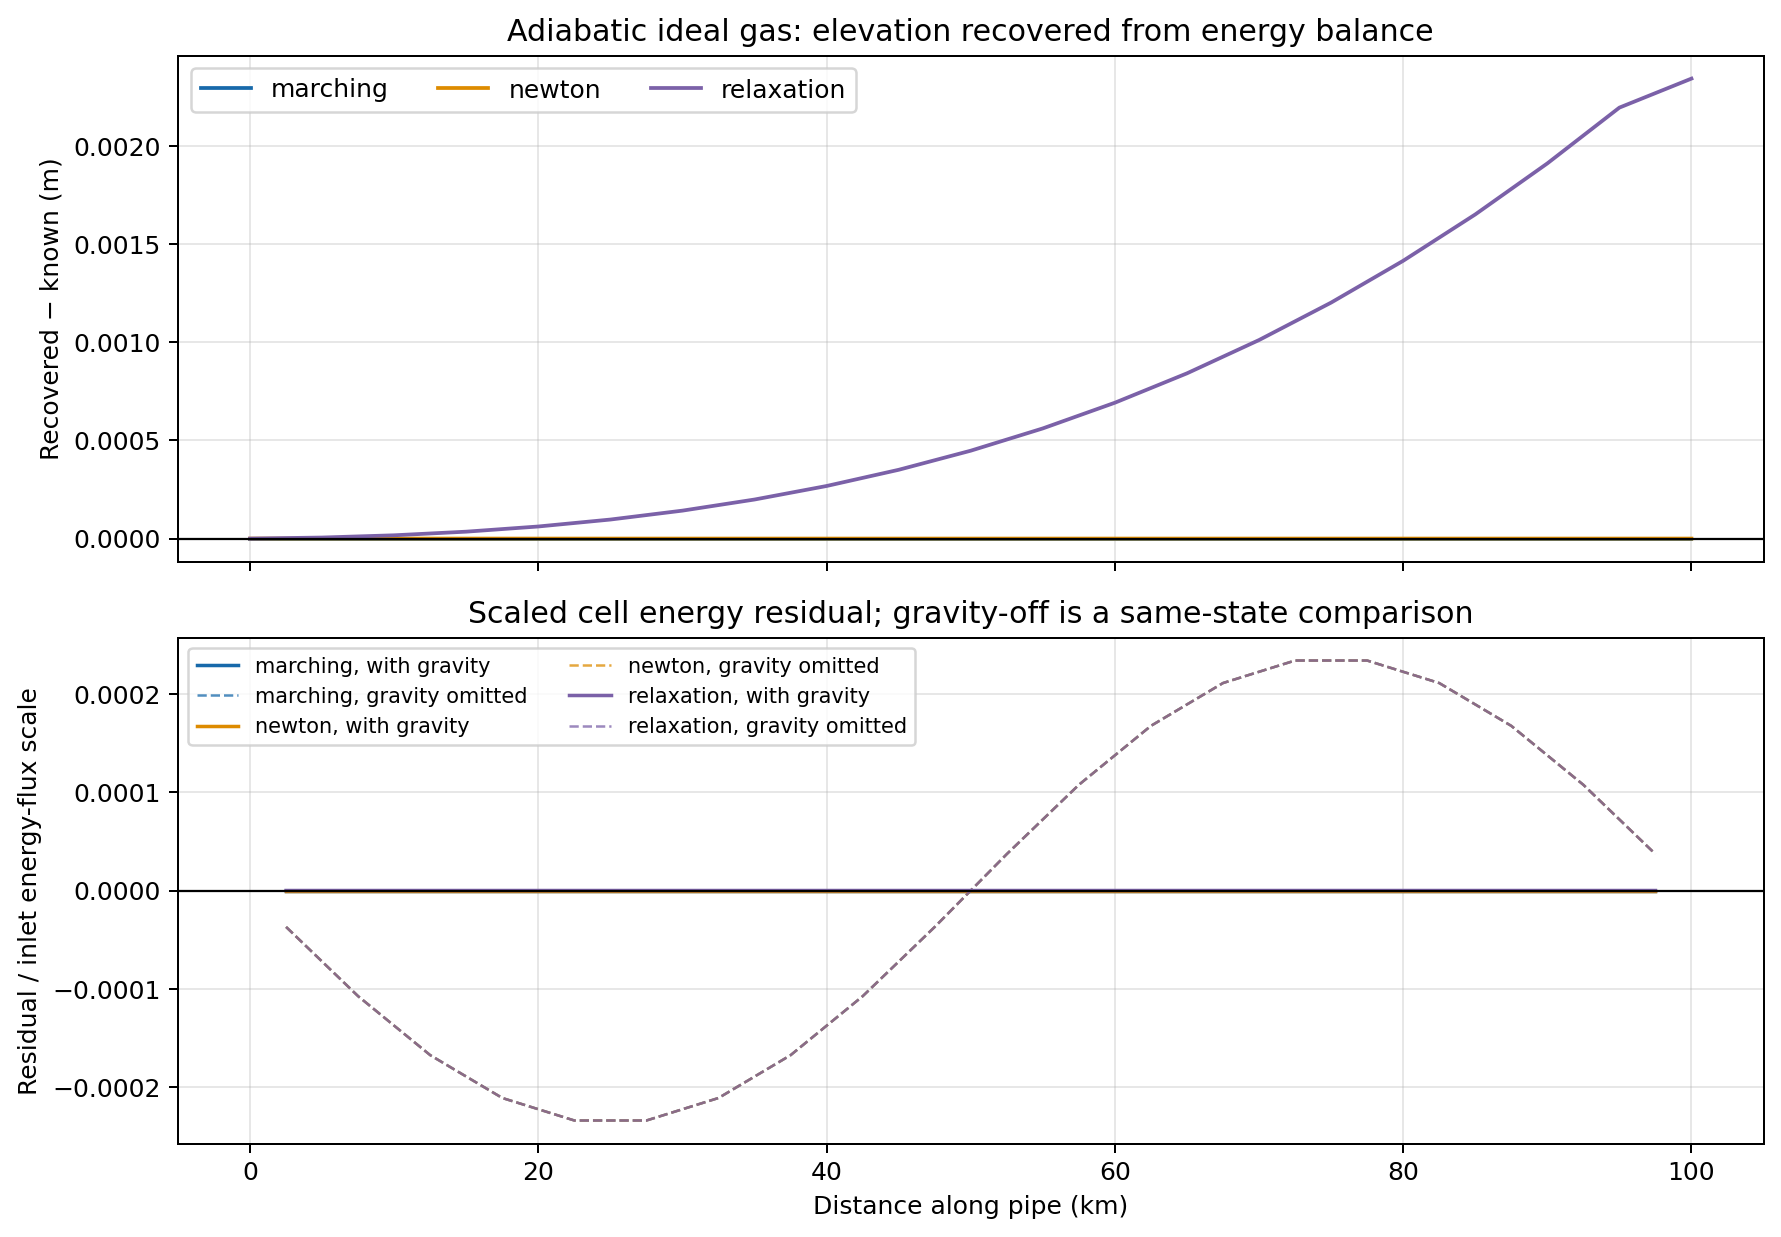
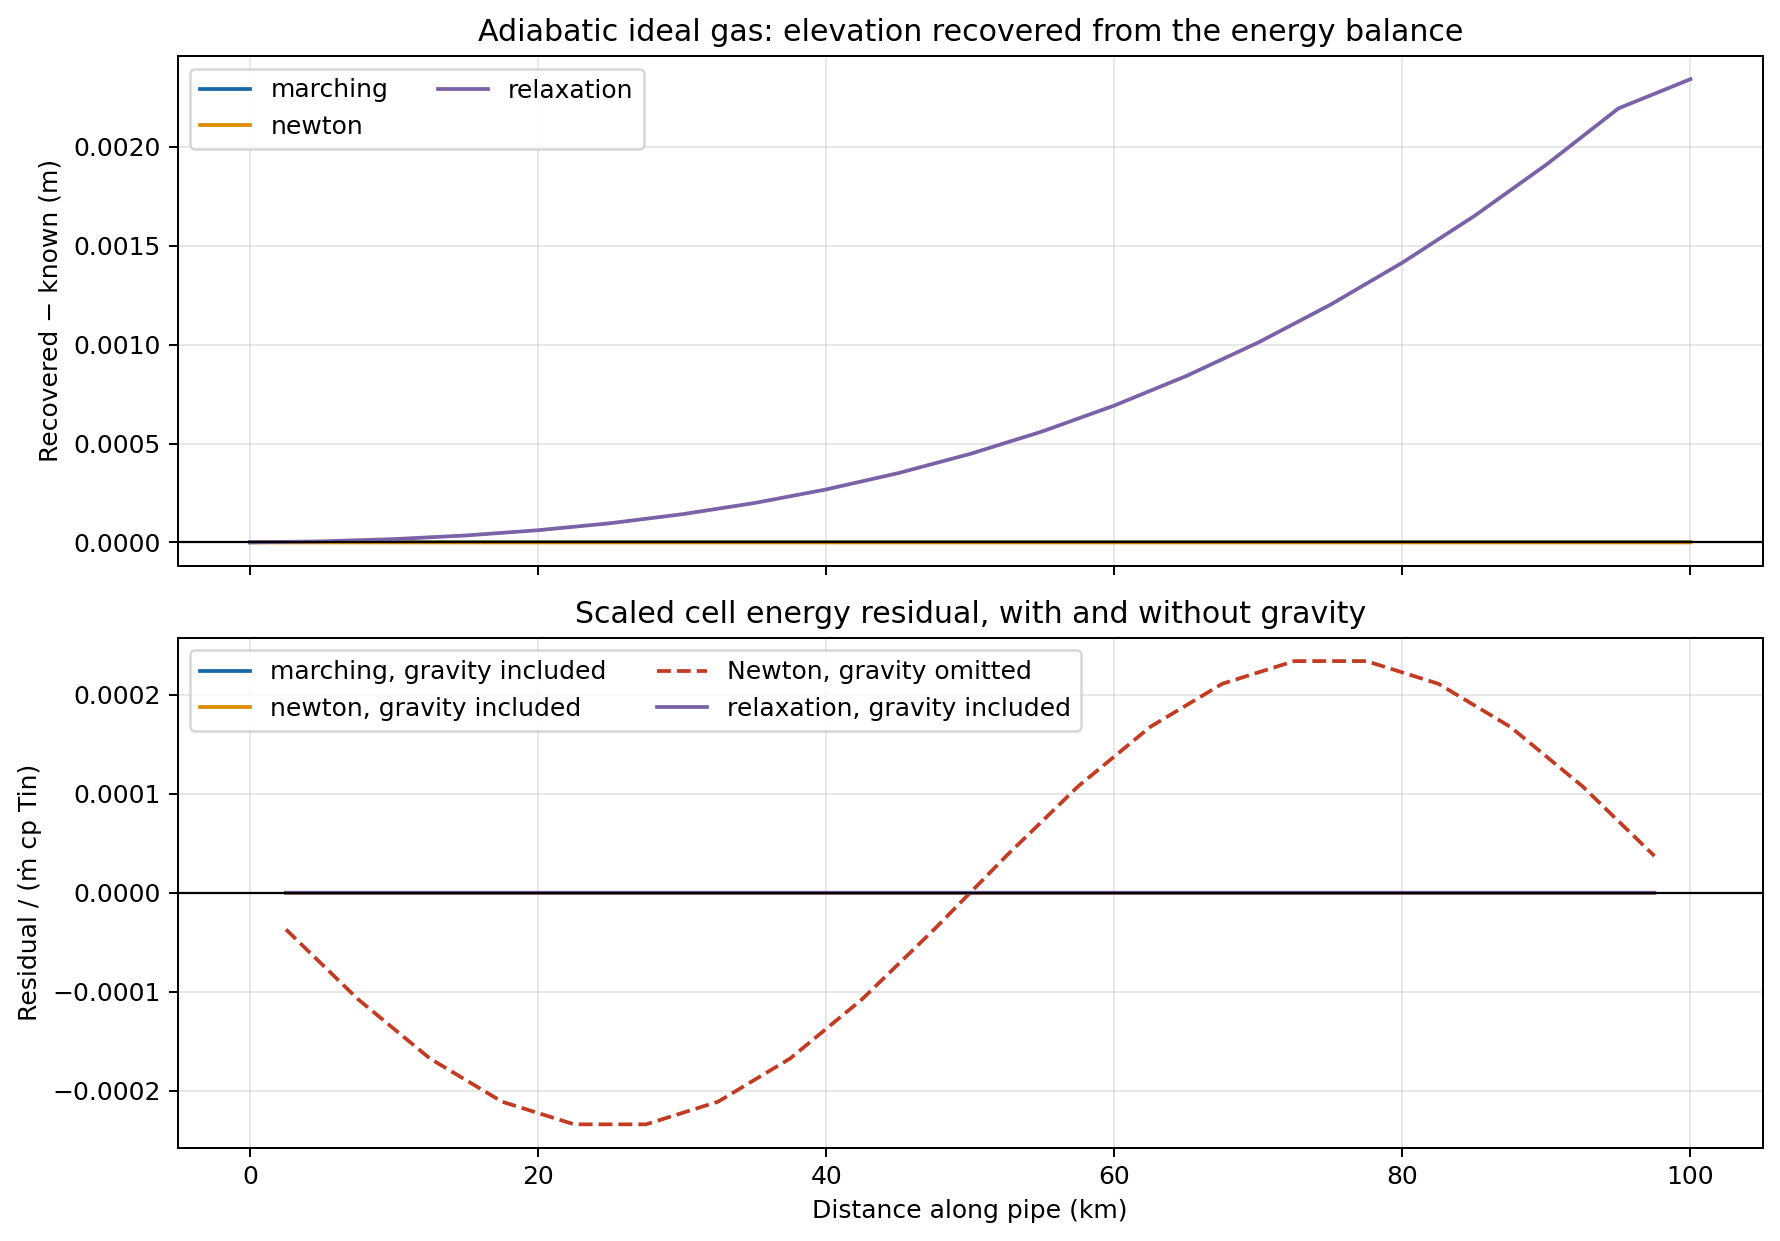
Document model geometry and add reproducible gravity validation

diff --git a/scripts/validate_energy_gravity.py b/scripts/validate_energy_gravity.py
@@ -1,0 +1,191 @@
+#!/usr/bin/env python3
+# Copyright (C) 2026 Richard Myers
+# SPDX-License-Identifier: AGPL-3.0-only
+#
+# Licensed under the GNU Affero General Public License, version 3 only.
+# See the LICENSE file for the complete terms.
+#
+# A separate commercial license for proprietary use may be available by
+# written agreement with the relevant rights holders. This notice does not
+# grant that license, guarantee its availability, or set fees, royalties,
+# or revenue shares.
+
+"""Check steady energy balances and gravity contribution from profile CSVs."""
+
+import csv
+import math
+from pathlib import Path
+
+import matplotlib.pyplot as plt
+
+
+ROOT = Path(__file__).resolve().parent.parent
+RESULTS = ROOT / "results"
+METHODS = ("analytical", "marching", "newton", "relaxation")
+COLORS = {"analytical": "#8a8a8a", "marching": "#1769aa",
+          "newton": "#dd8b00", "relaxation": "#7b61a8"}
+R = 518.3
+GAMMA = 1.30
+CP = GAMMA * R / (GAMMA - 1.0)
+TIN = 288.15
+MOUT = 100.0
+GRAVITY = 9.80665
+DIAMETER = 0.6
+AREA = math.pi * DIAMETER**2 / 4.0
+INNER_CONDUCTANCE = 10.0 * math.pi * DIAMETER
+
+
+def read_rows(path):
+    with path.open(newline="", encoding="utf-8") as stream:
+        rows = list(csv.DictReader(stream))
+    if not rows:
+        raise ValueError(f"No profile data in {path}")
+    return rows
+
+
+def populated(rows, column):
+    return [row for row in rows if row.get(column, "").strip()]
+
+
+def stats(values):
+    return max(map(abs, values)), math.sqrt(sum(v * v for v in values) / len(values))
+
+
+def adiabatic(rows, method):
+    nodes = populated(rows, "x_node_m")
+    faces = populated(rows, "x_face_m")
+    if len(faces) != len(nodes) - 1:
+        raise ValueError("Adiabatic profile has inconsistent node and face counts")
+    x = [float(r["x_node_m"]) for r in nodes]
+    z = [float(r["elevation_m"]) for r in nodes]
+    p = [float(r[f"p_{method}_Pa"]) for r in nodes]
+    t = [float(r[f"T_{method}_K"]) for r in nodes]
+    flow = [float(r[f"m_{method}_kg_s"]) for r in faces]
+    recovered = [z[0]]
+    residual_on, residual_off = [None], [None]
+    scale = CP * TIN
+    for i in range(len(flow)):
+        rho_left = p[i] / (R * t[i])
+        rho_right = p[i + 1] / (R * t[i + 1])
+        u_left = flow[i] / (AREA * rho_left)
+        u_right = flow[i] / (AREA * rho_right)
+        delta_h = CP * (t[i + 1] - t[i]) + 0.5 * (u_right**2 - u_left**2)
+        dz = -delta_h / GRAVITY
+        recovered.append(recovered[-1] + dz)
+        residual_off.append(delta_h / scale)
+        residual_on.append((delta_h + GRAVITY * (z[i + 1] - z[i])) / scale)
+    misfit = [a - b for a, b in zip(recovered, z)]
+    return x, z, recovered, misfit, residual_on, residual_off
+
+
+def thermal(rows, method):
+    nodes = populated(rows, "x_node_m")
+    faces = populated(rows, "x_face_m")
+    if len(faces) != len(nodes) - 1:
+        raise ValueError("Thermal profile has inconsistent node and face counts")
+    x = [float(r["x_node_m"]) for r in nodes]
+    z = [float(r["elevation_m"]) for r in nodes]
+    tg = [float(r[f"Tg_{method}_K"]) for r in nodes]
+    tw = [float(r[f"Tw_{method}_K"]) for r in nodes]
+    flow = [float(r[f"m_{method}_kg_s"]) for r in faces]
+    cells = len(nodes) - 1
+    dx = (x[-1] - x[0]) / cells
+    recovered = [z[0]]
+    residual_on, residual_off = [None], [None]
+    scale = MOUT * CP * TIN
+    for i in range(1, len(nodes)):
+        ml = flow[i - 1]
+        mr = flow[i] if i < len(faces) else MOUT
+        ell = dx * (0.5 if i == len(faces) else 1.0)
+        heat = INNER_CONDUCTANCE * (tw[i] - tg[i])
+        sensible_flux = CP * (mr * tg[i] - ml * tg[i - 1])
+        grav_flux_known = GRAVITY * (mr * z[i] - ml * z[i - 1])
+        # Invert the same discrete energy residual, anchoring z at the inlet.
+        zi = (heat * ell - sensible_flux + GRAVITY * ml * recovered[-1]) / (GRAVITY * mr)
+        recovered.append(zi)
+        residual_on.append((sensible_flux + grav_flux_known - heat * ell) / scale)
+        residual_off.append((sensible_flux - heat * ell) / scale)
+    misfit = [a - b for a, b in zip(recovered, z)]
+    return x, z, recovered, misfit, residual_on, residual_off
+
+
+def write_and_plot(title, csv_name, plot_name, source, evaluator, methods=METHODS):
+    rows = read_rows(ROOT / source)
+    results = {m: evaluator(rows, m) for m in methods}
+    output = RESULTS / csv_name
+    plot = RESULTS / plot_name
+    output.parent.mkdir(parents=True, exist_ok=True)
+    columns = ["x_node_m", "elevation_known_m"]
+    for method in methods:
+        columns.extend((f"elevation_recovered_{method}_m",
+                        f"elevation_misfit_{method}_m",
+                        f"energy_residual_with_gravity_{method}_scaled",
+                        f"energy_residual_without_gravity_{method}_scaled"))
+    with output.open("w", newline="", encoding="utf-8") as stream:
+        writer = csv.writer(stream, lineterminator="\n")
+        writer.writerow(columns)
+        n = len(results["newton"][0])
+        for i in range(n):
+            row = [results["newton"][0][i], results["newton"][1][i]]
+            for method in methods:
+                _, _, recovered, misfit, on, off = results[method]
+                row.extend((recovered[i], misfit[i],
+                            "" if on[i] is None else on[i],
+                            "" if off[i] is None else off[i]))
+            writer.writerow(row)
+
+    print(f"\n{title} — {source}")
+    print("initializer     elevation max/RMS (m)   energy residual max/RMS with g   without g")
+    for method, data in results.items():
+        _, _, _, misfit, on, off = data
+        on_vals = [v for v in on if v is not None]
+        off_vals = [v for v in off if v is not None]
+        em, er = stats(misfit)
+        om, ore = stats(on_vals)
+        fm, fre = stats(off_vals)
+        print(f"{method:12s} {em:.3e}/{er:.3e}       {om:.3e}/{ore:.3e}       {fm:.3e}/{fre:.3e}")
+    print(f"CSV:  {output.relative_to(ROOT)}")
+
+    fig, axes = plt.subplots(2, 1, figsize=(10, 7), sharex=True)
+    for method, data in results.items():
+        x, _, _, misfit, on, off = data
+        axes[0].plot([v / 1000.0 for v in x], misfit,
+                     color=COLORS[method], label=method)
+        midpoint = [(x[i] + x[i + 1]) / 2000.0 for i in range(len(x) - 1)]
+        axes[1].plot(midpoint, on[1:], color=COLORS[method], label=f"{method}, gravity included")
+        if method == "newton":
+            axes[1].plot(midpoint, off[1:], color="#c23b22", linestyle="--",
+                         label="Newton, gravity omitted")
+    axes[0].set_title(f"{title}: elevation recovered from the energy balance")
+    axes[0].set_ylabel("Recovered − known (m)")
+    axes[1].set_title("Scaled cell energy residual, with and without gravity")
+    axes[1].set_ylabel("Residual / (ṁ cp Tin)")
+    axes[1].set_xlabel("Distance along pipe (km)")
+    for axis in axes:
+        axis.axhline(0.0, color="black", linewidth=0.9)
+        axis.grid(True, alpha=0.3)
+        axis.legend(ncol=2, loc="best")
+    fig.tight_layout()
+    fig.savefig(plot, dpi=180, facecolor="white", bbox_inches="tight")
+    plt.close(fig)
+    print(f"Plot: {plot.relative_to(ROOT)}")
+
+
+def main():
+    write_and_plot("Adiabatic ideal gas",
+                   "adiabatic_energy_gravity_validation.csv",
+                   "adiabatic_energy_gravity_validation.png",
+                   "adiabatic_profiles.csv", adiabatic,
+                   methods=("marching", "newton", "relaxation"))
+    write_and_plot("Thermal gas and lumped wall",
+                   "thermal_wall_energy_gravity_validation.csv",
+                   "thermal_wall_energy_gravity_validation.png",
+                   "thermal_wall_profiles.csv", thermal)
+    write_and_plot("Fully thermal gas, wall, and soil-shell",
+                   "soil_shell_energy_gravity_validation.csv",
+                   "soil_shell_energy_gravity_validation.png",
+                   "results/soil_shell_profiles.csv", thermal)
+
+
+if __name__ == "__main__":
+    main()

diff --git a/README.md b/README.md
@@ -13,6 +13,26 @@ A C++20 reference library for constructing steady starting states for transient 
 
 All four profile examples use the same 100 m cosine-shaped hill over the 100 km pipe, with equal elevations at the two ends. Each model's `hill_height` setting controls the crest height.
 
+### Geometry and grids used in the profile examples
+
+| Parameter | Isothermal | Adiabatic ideal gas | Thermal gas and lumped wall | Fully thermal soil-shell |
+|---|---:|---:|---:|---:|
+| Pipe length, $L$ | 100 km | 100 km | 100 km | 100 km |
+| Internal diameter, $D$ | 0.60 m | 0.60 m | 0.60 m | 0.60 m |
+| Flow area, $A=\pi D^2/4$ | 0.2827 m² | 0.2827 m² | 0.2827 m² | 0.2827 m² |
+| Darcy roughness | 0.045 mm | 0.045 mm | 0.045 mm | 0.045 mm |
+| Axial cells, $N$ | 100 | 20 | 20 | 16 |
+| Axial cell length, $\Delta x$ | 1 km | 5 km | 5 km | 6.25 km |
+| Hill crest height | 100 m | 100 m | 100 m | 100 m |
+| Wall thickness | — | — | 12.7 mm | 12.7 mm |
+| Soil-shell node radii | — | — | — | 0.40, 0.58, 0.84, 1.20 m |
+| Far-field radius | — | — | — | 2.0 m |
+
+The elevation is $z(x)=\frac{h}{2}[1-\cos(2\pi x/L)]$, where $h=100$ m
+for these plots. It is zero at both ends and reaches its crest at the pipe
+midpoint. The listed soil radii are measured from the pipe centerline; the
+2.0 m far-field radius is the outer thermal boundary.
+
 ## Profile examples
 
 | Isothermal | Adiabatic ideal gas |
@@ -66,7 +86,7 @@ checkout with:
 bash scripts/run_elevation_gravity_validation.sh
 ```
 
-The script configures and builds the required exporters, then runs the three
+The script configures and builds the required exporters, then runs four
 Python diagnostics. Plot generation requires Matplotlib; the C++ build and
 tests use the standard C++ toolchain and CMake.
 
